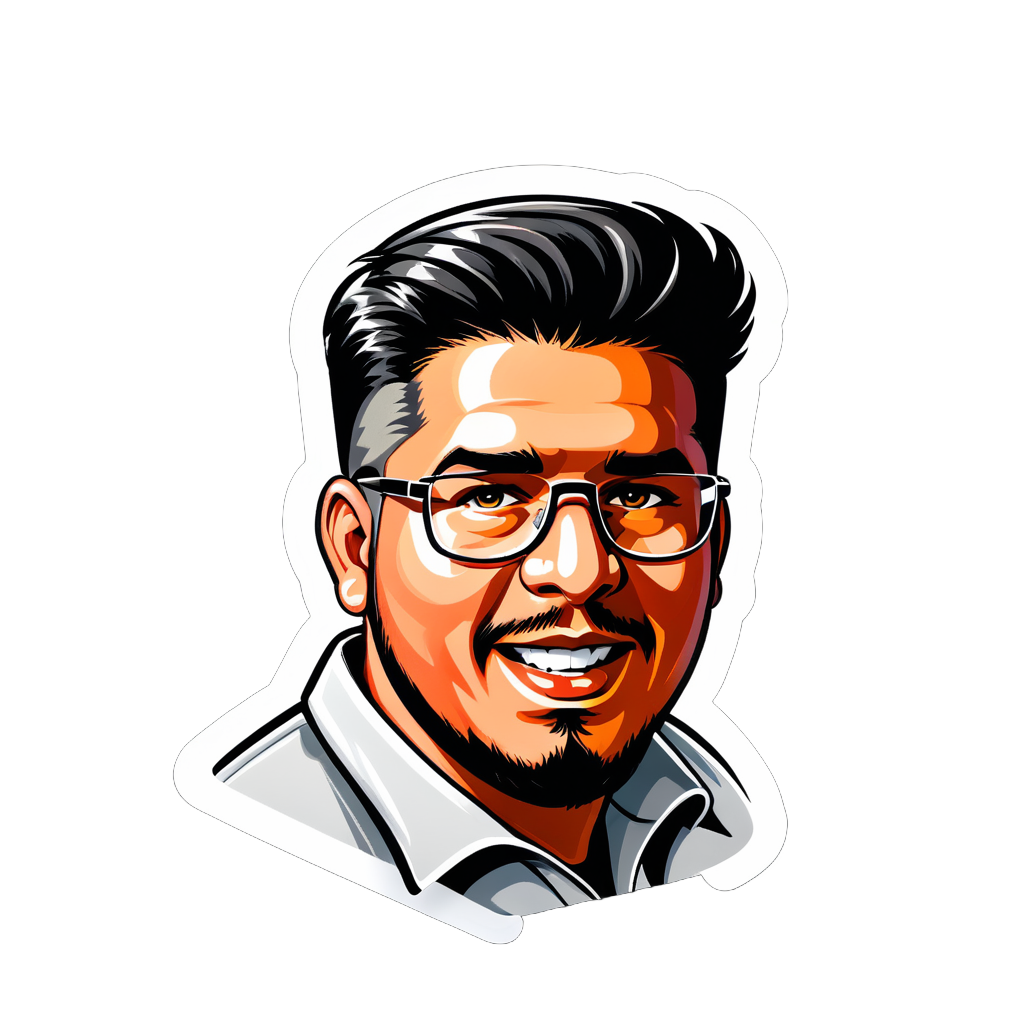
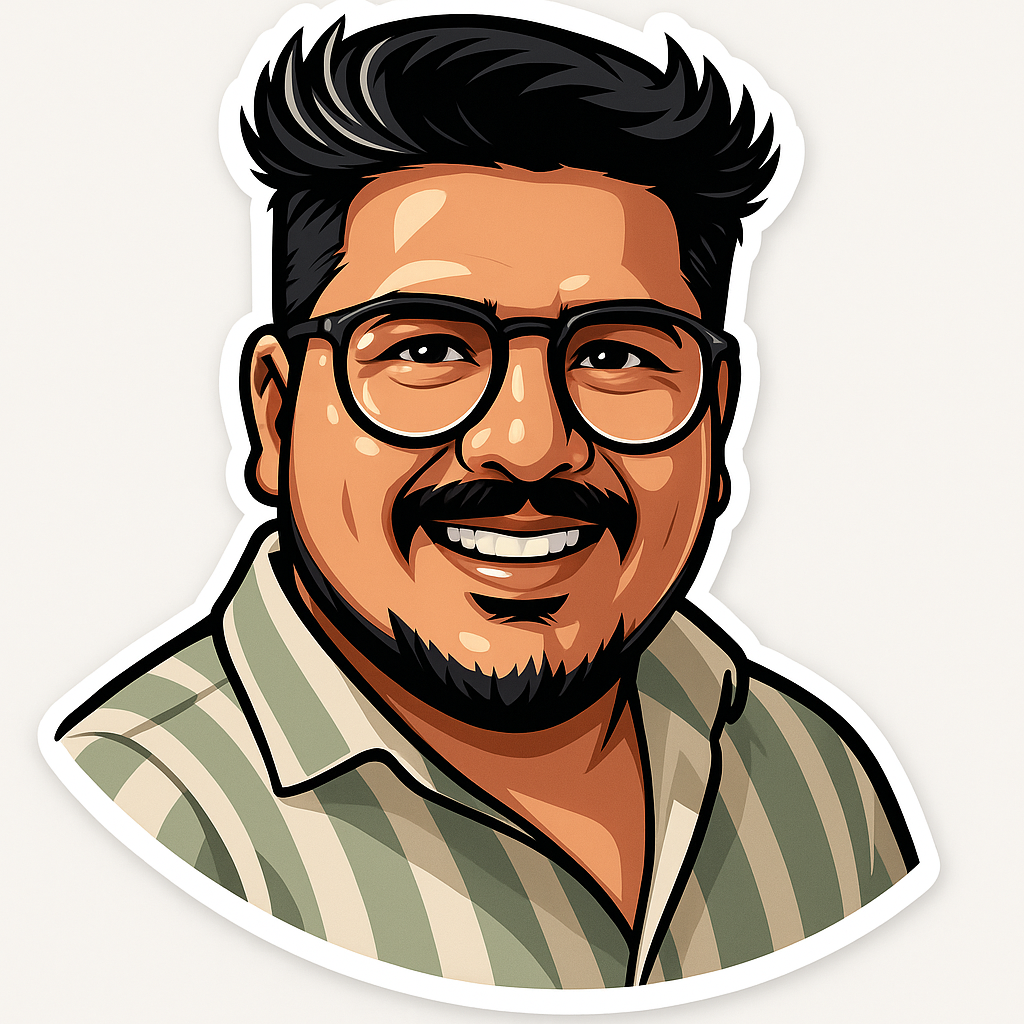
Added more cartoon variants.

diff --git a/utils/constants.ts b/utils/constants.ts
@@ -43,6 +43,7 @@ export const VARIANT_OPTIONS: {
   { label: 'Sticker', value: 'sticker', image: require('@/assets/images/sticker.png'), isPro: true },
   { label: 'Pixar', value: 'pixar', image: require('@/assets/images/pixar.png'), isPro: true },
   { label: 'Plushy', value: 'plushy', image: require('@/assets/images/plushy.png'), isPro: true },
+  { label: 'Kawaii', value: 'kawaii', image: require('@/assets/images/kawaii.png'), isPro: true },
 ];
 
 // Define best practices data structure
@@ -50,7 +51,8 @@ const BEST_PRACTICES: Record<ImageVariantFrontend, string[]> = {
   pixar: [
     "Clear, well-lit portrait or upper body shots work best.",
     "Avoid very busy backgrounds for optimal focus on the subject.",
-    "1-2 people maximum for best character detail."
+    "1-2 people maximum for best character detail.",
+    "Try choosing pictures without glasses since Pixar style focusses on the eyes."
   ],
   ghiblix: [
     "Scenic shots or expressive character faces are great.",
@@ -67,6 +69,20 @@ const BEST_PRACTICES: Record<ImageVariantFrontend, string[]> = {
     "Good lighting helps define the 'plush' texture.",
     "Avoid overly complex details that might get lost."
   ],
+  kawaii: [
+    "Use simple, front-facing portraits for best results.",
+    "Avoid detailed or noisy backgrounds — plain is ideal.",
+    "Soft lighting works better than dramatic shadows.",
+    "Close-up shots of faces or cute objects yield more accurate 'kawaii' styling.",
+    "Avoid sunglasses or harsh expressions — neutral or smiling faces are best."
+  ],
+  anime: [
+    "High-resolution face or upper-body shots work best.",
+    "Well-lit images with clear facial features improve stylization.",
+    "Neutral or light expressions adapt best into anime character emotions.",
+    "Avoid group shots — stick to 1-2 persons per image.",
+    "Avoid heavy makeup or filters that may confuse the AI model."
+  ]
 };
 
 const ANALYTICS_EVENTS = {

diff --git a/utils/types.ts b/utils/types.ts
@@ -70,4 +70,4 @@ export interface Generation {
 }
 
 // Define frontend variant type and options
-export type ImageVariantFrontend = 'pixar' | 'ghiblix' | 'sticker' | 'plushy';
+export type ImageVariantFrontend = 'pixar' | 'ghiblix' | 'sticker' | 'plushy' | 'kawaii' | 'anime';
